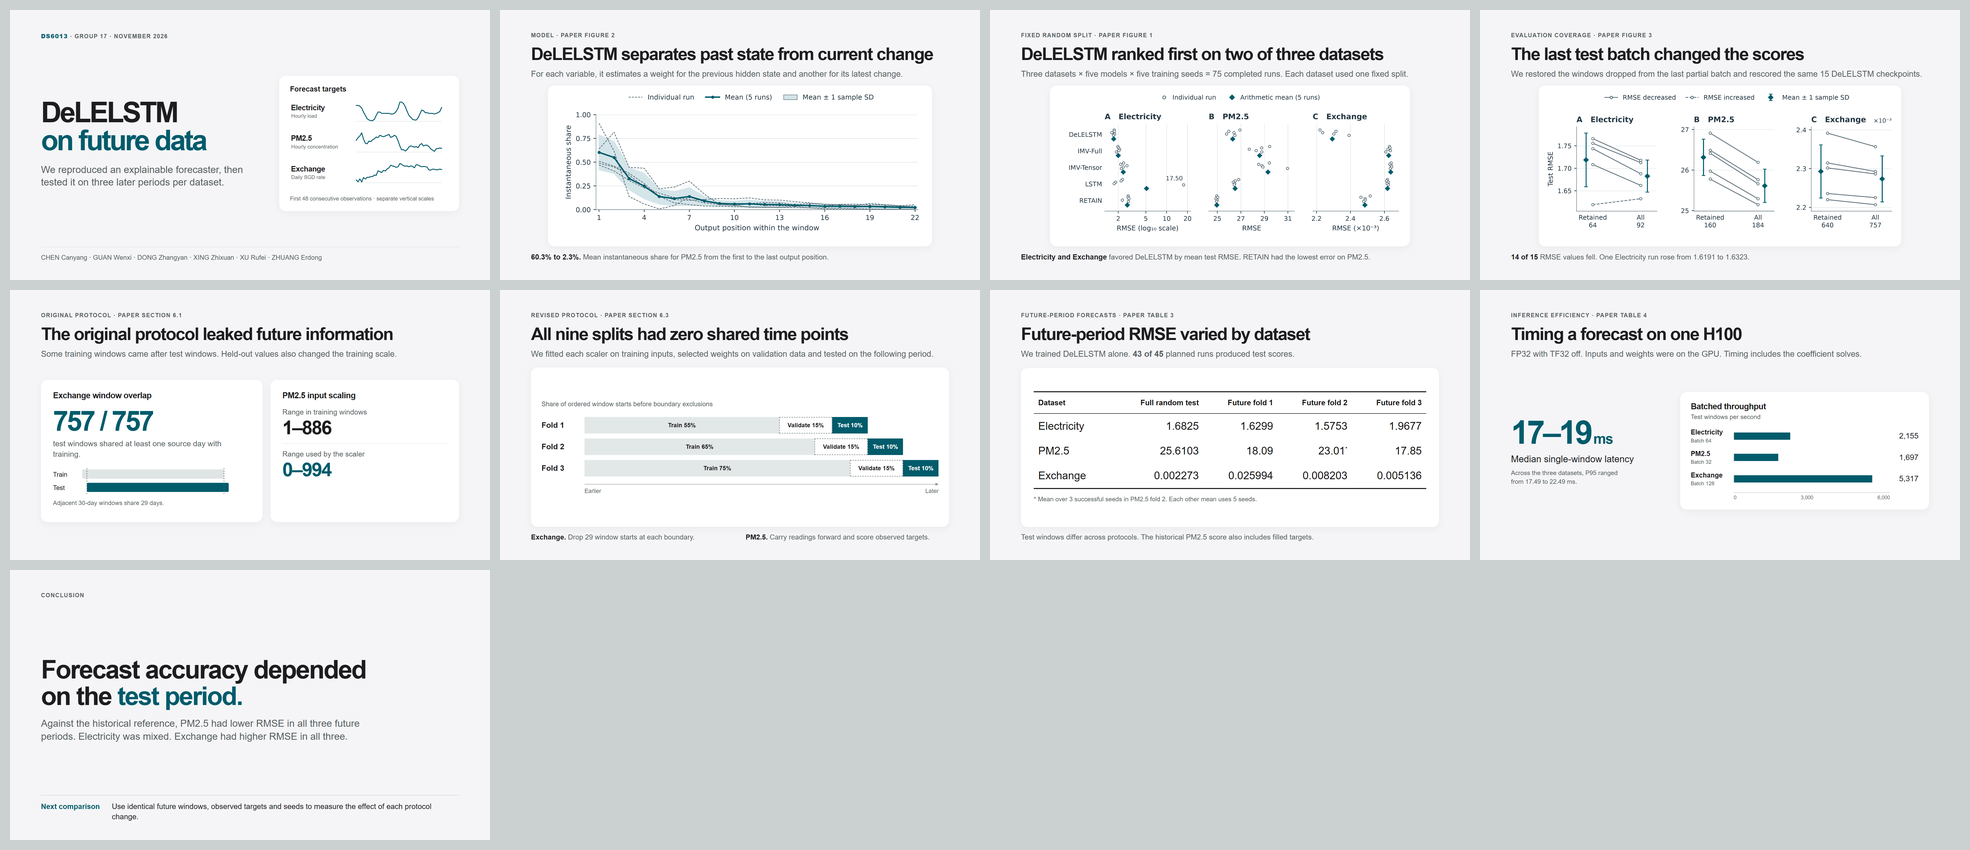
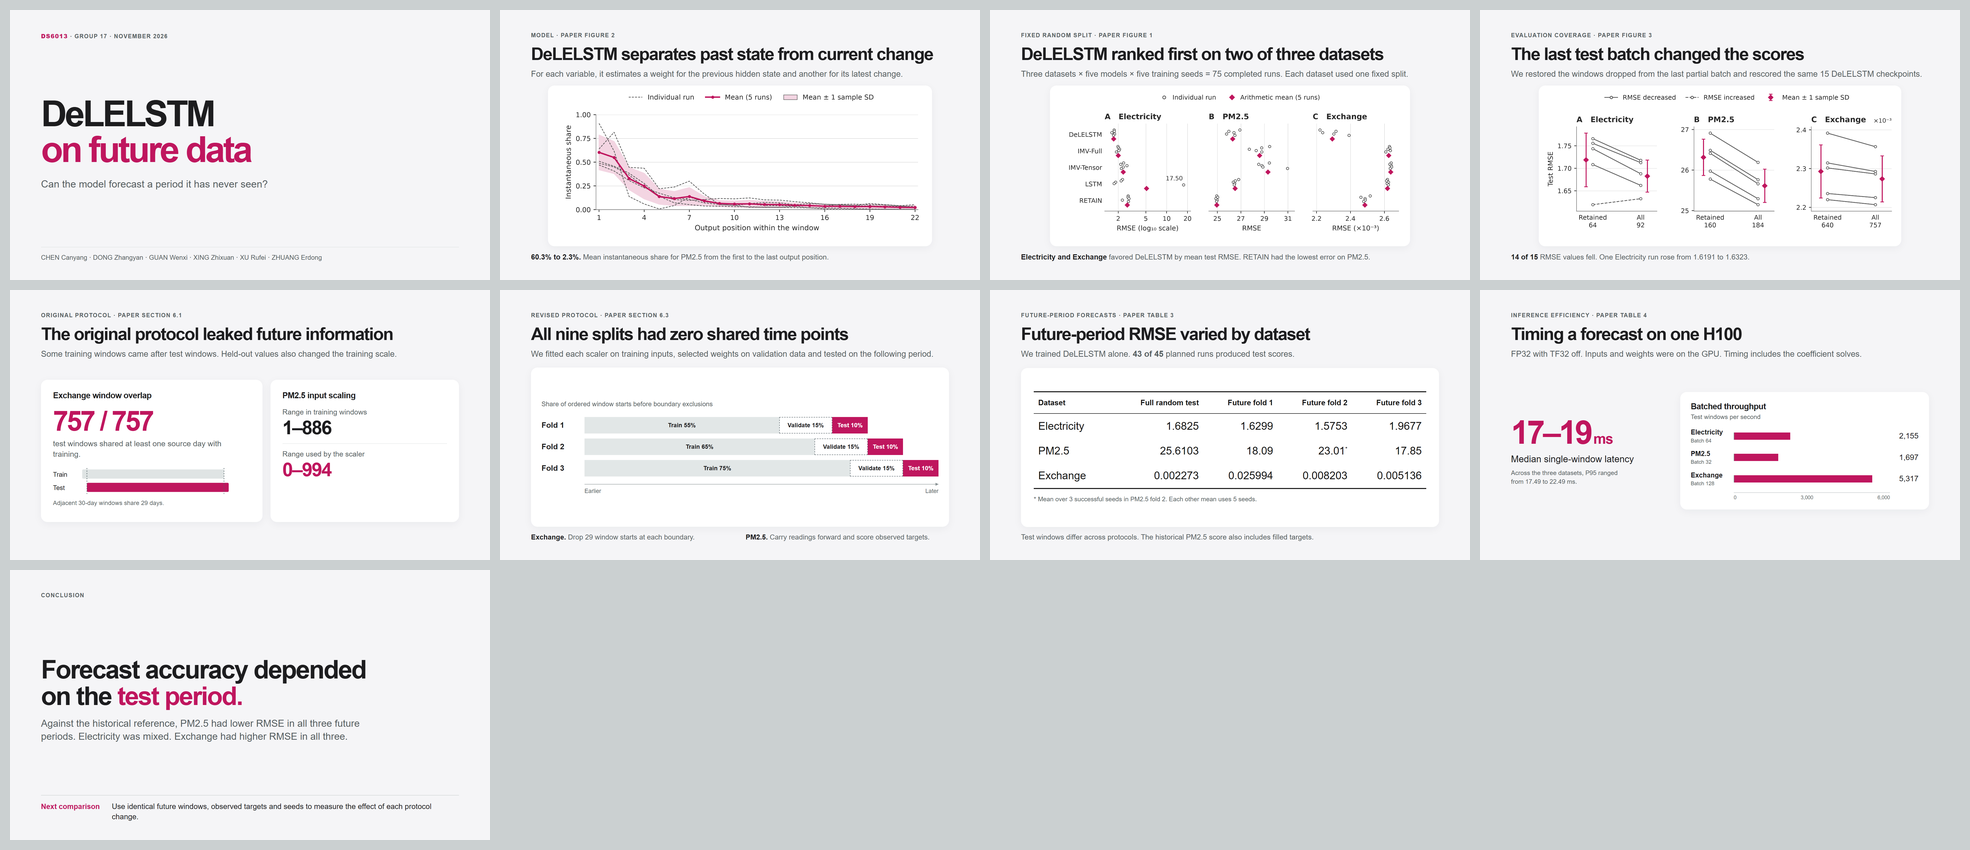
Time the DeLELSTM presentation for seven minutes and apply CityU burgundy

diff --git a/doc/pre/deck.html b/doc/pre/deck.html
@@ -7,7 +7,7 @@
 <style>
 :root {
   --bg: #f5f5f7; --ink: #1d1d1f; --muted: #555d61; --line: #d5dada;
-  --accent: #005b6b; --paper: #fff;
+  --accent: #bf165e; --paper: #fff;
   --font: "Inter", "PingFang SC", "Helvetica Neue", Arial, "Microsoft YaHei", sans-serif;
 }
 * { box-sizing: border-box; }
@@ -33,13 +33,9 @@ h1 { font-size: 70px; font-weight: 600; line-height: 1.11; letter-spacing: -.045
 .fine { font-size: 25px; line-height: 1.4; color: var(--muted); }
 .sr { position: absolute; width: 1px; height: 1px; padding: 0; margin: -1px; overflow: hidden;
   clip-path: inset(50%); white-space: nowrap; border: 0; }
-.cover-main { flex: 1; display: grid; grid-template-columns: 1.1fr .9fr; gap: 74px; align-items: center; }
-.cover h1 { font-size: 114px; line-height: .99; letter-spacing: -.063em; margin-top: 0; }
-.cover .intro { margin-top: 35px; max-width: 820px; font-size: 39px; color: var(--muted); line-height: 1.28; }
-.cover-figure { padding: 37px 43px 33px; }
-.cover-figure figcaption { font-size: 29px; font-weight: 600; margin-bottom: 16px; }
-.cover-figure img { width: 100%; height: auto; display: block; }
-.cover-figure .fine { font-size: 22px; margin-top: 11px; }
+.cover-main { flex: 1; display: flex; flex-direction: column; align-items: flex-start; justify-content: center; }
+.cover h1 { font-size: 144px; line-height: .99; letter-spacing: -.06em; margin-top: 0; }
+.cover .intro { margin-top: 40px; max-width: 1130px; font-size: 40px; color: var(--muted); line-height: 1.3; }
 .authors { border-top: 1px solid var(--line); padding-top: 23px; font-size: 26px; line-height: 1.4; color: var(--muted); }
 .audit-grid { flex: 1; display: grid; grid-template-columns: 1.08fr .92fr; gap: 32px; align-content: center; }
 .audit-card { padding: 44px 48px 42px; min-height: 569px; }
@@ -109,7 +105,7 @@ h1 { font-size: 70px; font-weight: 600; line-height: 1.11; letter-spacing: -.045
 #index strong { display: block; font-size: 12px; text-transform: uppercase; color: var(--muted); padding: 8px 10px 2px; }
 #index button { display: flex; width: 100%; gap: 10px; border: 0; background: transparent; text-align: left; color: var(--ink);
   padding: 8px 10px; font-size: 14px; border-radius: 6px; cursor: pointer; }
-#index button[aria-current="page"], #index button:hover { background: #e8eff0; }
+#index button[aria-current="page"], #index button:hover { background: color-mix(in srgb, var(--accent) 8%, white); }
 #counter { position: fixed; z-index: 4; right: 15px; bottom: 12px; padding: 5px 11px; color: white;
   background: #333c; border-radius: 7px; font-size: 14px; }
 @media (hover: none) { #controls { opacity: .8; } }
@@ -122,17 +118,10 @@ h1 { font-size: 70px; font-weight: 600; line-height: 1.11; letter-spacing: -.045
 <section class="slide cover active" data-sec="Overview" data-title="DeLELSTM on future data">
   <div class="kicker"><strong>DS6013</strong> · Group 17 · November 2026</div>
   <div class="cover-main">
-    <div>
-      <h1>DeLELSTM<br><span class="accent">on future data</span></h1>
-      <p class="intro">We reproduced an explainable forecaster, then tested it on three later periods per dataset.</p>
-    </div>
-    <figure class="cover-figure paper">
-      <figcaption>Forecast targets</figcaption>
-      <img src="media/forecast-targets.svg" alt="Observed electricity demand, PM2.5 concentration and Singapore exchange rate.">
-      <p class="fine">First 48 consecutive observations · separate vertical scales</p>
-    </figure>
+    <h1>DeLELSTM<br><span class="accent">on future data</span></h1>
+    <p class="intro">Can the model forecast a period it has never seen?</p>
   </div>
-  <footer class="authors">CHEN Canyang · GUAN Wenxi · DONG Zhangyan · XING Zhixuan · XU Rufei · ZHUANG Erdong</footer>
+  <footer class="authors">CHEN Canyang · DONG Zhangyan · GUAN Wenxi · XING Zhixuan · XU Rufei · ZHUANG Erdong</footer>
 </section>
 
 <section class="slide" data-sec="Replication" data-title="Past state and current change">
@@ -180,7 +169,7 @@ h1 { font-size: 70px; font-weight: 600; line-height: 1.11; letter-spacing: -.045
         <g font-family="Arial, sans-serif" fill="#1d1d1f" font-size="23">
           <text x="0" y="42">Train</text><text x="0" y="90">Test</text>
           <rect x="105" y="16" width="510" height="33" rx="4" fill="#dfe4e4"/>
-          <rect x="122" y="64" width="510" height="33" rx="4" fill="#005b6b"/>
+          <rect x="122" y="64" width="510" height="33" rx="4" fill="var(--accent)"/>
           <path d="M122 11v93 M615 11v93" stroke="#546367" stroke-width="2" stroke-dasharray="4 5"/>
           <text x="0" y="144" fill="#555d61" font-size="22">Adjacent 30-day windows share 29 days.</text>
         </g>

diff --git a/doc/pre/render_figures.py b/doc/pre/render_figures.py
@@ -1,0 +1,49 @@
+"""Redraw the three presentation figures from the group's archived scores."""
+
+from pathlib import Path
+import re
+import shutil
+import sys
+from tempfile import TemporaryDirectory
+
+import matplotlib.colors as colors
+import matplotlib.pyplot as plt
+import pandas as pd
+
+HERE = Path(__file__).resolve().parent
+ROOT = HERE.parents[1]
+sys.path.insert(0, str(ROOT / "scripts"))
+import reproduce_paper_figures as paper
+
+
+def main():
+    css = (HERE / "deck.html").read_text(encoding="utf-8")
+    accent = re.search(r"--accent:\s*(#[0-9a-fA-F]{6})\s*;", css).group(1)
+    paper.MEAN = accent
+    paper.BAND = colors.to_hex([0.82 + 0.18 * channel for channel in colors.to_rgb(accent)])
+    paper.RAW = "#595959"
+    style = {
+        **paper.FIGURE_STYLE,
+        "text.color": "#282828",
+        "axes.labelcolor": "#282828",
+        "xtick.color": "#282828",
+        "ytick.color": "#282828",
+        "axes.edgecolor": "#777777",
+        "grid.color": "#dddddd",
+    }
+
+    results = ROOT / "results"
+    figures = results / "figures"
+    with TemporaryDirectory() as temp, plt.rc_context(style):
+        out = Path(temp)
+        paper.plot_performance(pd.read_csv(results / "five_run" / "verified_detail.csv"), out)
+        paper.plot_shares(pd.read_csv(figures / "pm25_instantaneous_share_five_runs.csv",
+                                      float_precision="round_trip"), out)
+        paper.plot_windows(pd.read_csv(figures / "audit_full_test_five_runs.csv",
+                                       float_precision="round_trip"), out)
+        for image in out.glob("*.png"):
+            shutil.copyfile(image, HERE / "media" / image.name)
+
+
+if __name__ == "__main__":
+    main()

diff --git a/doc/pre/七分钟讲稿.md b/doc/pre/七分钟讲稿.md
@@ -1,0 +1,55 @@
+# DeLELSTM on future data
+
+英文口播稿，共 9 页，约 800 词，按每分钟约 115 词排练。每页标题前的时间是从开场累计的换页点。在 **3:40** 切到时间划分页，在 **5:50** 切到推理页，在 **7:00** 结束。[打开投影片](deck.html)
+
+## 1 · 0:00–0:30 · The forecasting question
+
+Imagine forecasting tomorrow’s air pollution. What information would you actually have today? We’re Group Seventeen. We asked that question about DeLELSTM, a model that forecasts several kinds of time series and explains how it uses their history. We first reproduced its published evaluation. Then we tested the same model on three later periods for each dataset.
+
+## 2 · 0:30–1:20 · What the model explains
+
+Suppose air pollution suddenly rises. The model uses two pieces of information about each variable. One is the state it carried over from the previous step. The other is how much that state just changed. Each gets its own weight.
+
+Follow the solid line for the pollution variable itself. After we normalize the two sets of weights, the share assigned to the latest change is about sixty percent at the first output position. By the last position, it is about two percent. The dashed lines show the five individual runs. This tells us how the model uses a variable’s history across a window.
+
+## 3 · 1:20–2:05 · Reproducing the historical ranking
+
+We started with the original random split so we could check whether we could reproduce the model ranking. We ran five models with five training seeds on each of three datasets. That gives seventy-five runs. Each circle is one run, and each diamond is the average. Further left means lower forecast error.
+
+DeLELSTM has the lowest average error on electricity demand and exchange rates. For Beijing air pollution, RETAIN comes first. So the ranking depends on the dataset, even before we change how the test period is chosen.
+
+## 4 · 2:05–2:45 · The missing last batch
+
+The original evaluation stopped at the last complete batch. For electricity, that meant scoring only sixty-four of the ninety-two test windows.
+
+Each line follows one saved model. We kept its weights and restored the omitted windows. Error fell in fourteen of the fifteen comparisons. The dashed line on the left shows the one increase. We use the complete random test set as our historical reference from here on.
+
+## 5 · 2:45–3:40 · Two paths for future information
+
+Look at the two bars. One exchange-rate window covers days one through thirty. Move its start by a day, and the next window still contains twenty-nine of the same days. When windows are randomly assigned, one can end up in training and the other in testing. We checked the dates. Every one of the seven hundred and fifty-seven exchange-rate test windows shared at least one day with training.
+
+Scaling introduced a second problem. In the pollution training windows, the observations ranged from one to eight hundred and eighty-six. The scaler used zero to nine hundred and ninety-four. Values outside training had already influenced what the model saw.
+
+## 6 · 3:40–4:40 · Rebuilding the evaluation in time order
+
+Read each row from left to right. We train on the earliest observations, choose the model on the next period, and test it on the period after that. Across the three rows, training expands from fifty-five to seventy-five percent. We fit a fresh scaler using only the training inputs in each row.
+
+For exchange rates, we drop twenty-nine window starts after each boundary. Across all nine splits, we verified that training, validation and testing share zero original time points. For air pollution, we fill an input gap using the last available reading and score only observed targets. In the final test period, that excludes sixty-two missing targets from the error calculation.
+
+## 7 · 4:40–5:50 · What changed on future periods
+
+Read across each row. The first number is the historical score on the complete random test set. The next three are the average errors on successive future periods. Lower is better. We trained only DeLELSTM for this comparison.
+
+Air pollution shows the clearest downward pattern. Its historical error was about twenty-six, and the three future scores were roughly eighteen, twenty-three and eighteen. Electricity was lower in the first two periods and higher in the last. Exchange-rate error was higher in all three future periods.
+
+The asterisk matters. Two air pollution runs in the middle period failed during training, so that cell averages three successful seeds. Overall, forty-three of forty-five runs produced scores. The protocols also use different test windows, and the old pollution scores include filled targets. Those differences limit what we can attribute to the repair itself.
+
+## 8 · 5:50–6:30 · How fast is one forecast?
+
+We also timed the trained model on one H100 GPU. The inputs and weights were already on the device. We used full single precision and included the calculation of the explanation coefficients in the timing.
+
+One window took a median of seventeen to nineteen milliseconds. With batches, throughput ranged from about seventeen hundred pollution windows per second to fifty-three hundred exchange-rate windows per second. The batch sizes appear beside each bar. These timings cover the model’s forward pass.
+
+## 9 · 6:30–7:00 · What we can conclude
+
+We can now test on strictly later data using a scale learned from training alone. Accuracy still varied by dataset and period. To measure how much each repair changes accuracy, we would keep the future windows, observed targets and seeds fixed, then change one part of the protocol at a time. Thank you.

diff --git a/doc/pre/说明.md b/doc/pre/说明.md
@@ -1,10 +1,10 @@
 # DeLELSTM 课堂汇报
 
-双击 [deck.html](deck.html) 即可离线播放。单独转发材料时，请一起复制 `media/`。英文投影片共 9 页，按约 5 分钟设计。[全页预览](预览-全部页面.png) · [小组报告](../6013_Paper_public.docx)
+双击 [deck.html](deck.html) 即可离线播放。单独转发时请一起复制 `media/`。共 9 页，英文讲稿按 7 分钟编排，标明每页起止时间。[英文计时讲稿](七分钟讲稿.md) · [全页预览](预览-全部页面.png) · [小组报告](../6013_Paper_public.docx)
 
 ## 逐页讲解提示
 
-1. **研究问题。** 我们先复现 DeLELSTM 在随机划分下的成绩，再问同一模型能否预测更晚的时段。封面三条线分别取电力负荷、北京 PM2.5、新加坡汇率最早连续 48 个有观测的记录，各用自己的纵轴范围。电力和 PM2.5 是小时数据，汇率是日数据。[电力](../../vendor/upstream/DATA/Electricity/electric_consumption.csv) · [PM2.5](../../vendor/upstream/DATA/PM2.5/PRSA_data_2010.1.1-2014.12.31.csv) · [汇率](../../vendor/upstream/DATA/Exchange/exchange_rate.csv)
+1. **研究问题。** 从“今天预测明天的空气污染时，能用到哪些信息”切入，引出同一模型在随机划分和未来时段上的表现。封面姓名按英文姓氏字母顺序排列。
 2. **模型如何解释预测。** DeLELSTM 用各变量前一时刻的隐藏状态及其当前变化，线性重构共享隐藏状态，再用它预测。图中 PM2.5 自身的瞬时系数占比从首位置的 60.3% 降到末位置的 2.3%。这描述模型的系数分配，横轴是窗口内的输出位置。[报告图 2 与 110 个位置值](../../results/figures/pm25_instantaneous_share_five_runs.csv)
 3. **能否复现原有排名。** 三个数据集各用一次固定随机划分，五个模型各训练五次，共 75 次。按平均测试 RMSE 排名，DeLELSTM 在 Electricity 和 Exchange 最低，PM2.5 上最低的是 RETAIN。图中空心圆为单次结果，菱形为算术均值。[报告图 1 与 75 次训练明细](../../results/five_run/verified_detail.csv)
 4. **历史参照怎么得到。** 原测试只统计完整批次。我们用同一批权重补回尾批，15 组配对中有 14 组 RMSE 下降，另一次 Electricity 运行上升。后文的历史参照使用完整随机测试集上的五次均值。[报告图 3 与 15 组配对](../../results/figures/audit_full_test_five_runs.csv)
@@ -18,7 +18,9 @@
 
 方向键或空格翻页，`F` 切换全屏，`G` 打开目录，`C` 显示页码，数字键直达相应页。从 `deck.html#7` 打开可直接展示未来时段结果。
 
-三个报告原图随 `media/` 分发。封面曲线取自原始观测，第 5 页窗口示意和第 6 页按时间划分的比例图绘在 HTML 中。第 7、8 页数字分别来自上述逐折汇总与推理记录。
+演示的强调色采用香港城市大学计算机科学系官网样式中指定的主色 `#BF165E`。图中单次实验用灰色，均值用酒红色。第 7 页的数值表采用黑白三线表。[城大网页模板的 Burgundy Red 说明](https://www.cityu.edu.hk/www-info/templates/customization.htm) · [校方网页主色色值](https://www.cs.cityu.edu.hk/-/media/themes/cityuhk/cs/cs/styles/css_uwhkewx9wvenyej-mih376sgy0ys2t2kw0enwzlet5s.css?rev=a1ae55d8b2e040c4af5ff101b23330ad&hash=6E3A38C64DD79FD97F3E21E8F98E96AB)
+
+第 2–4 页的三幅图由报告的逐次实验结果重绘，随 `media/` 分发。需要重绘时，可在项目绘图环境中从本目录运行 `python render_figures.py`。第 5 页的相邻窗口示意和第 6 页的时间划分示意直接绘在投影片中。
 
 如需重建缩略图，在此目录运行以下命令。需要本机 Chrome 或 Edge，以及装有 Pillow 的 Python 3.10 或更新版本。
 

diff --git a/doc/README.md b/doc/README.md
@@ -2,7 +2,7 @@
 
 - [小组协作版 Word 稿](6013_Paper_public.docx) 包含五次历史训练成绩、图 1–3、第 6.1 和 6.3 节的时间协议核查、第 6.4 节表 3 的未来时段预测，以及第 6.5 节表 4 的 H100 推理效率。组员共同编辑此版本。
 - [项目进度与下一步](../docs/project_process.md) 记录数据核查、正式运行状态、逐折成绩和后续可选实验。
-- [课堂汇报](pre/deck.html) 共 9 页，可下载 `pre/` 后离线播放。[中文讲解提示与素材出处](pre/说明.md)
+- [课堂汇报](pre/deck.html) 共 9 页，按 7 分钟编排。下载 `pre/` 后可离线播放。[英文逐页讲稿与换页时间](pre/七分钟讲稿.md) · [中文讲解提示与素材出处](pre/说明.md)
 - [历史课程稿](DeLELSTM_Five_Run_Course_Paper.docx) 是较早版本，保留供比较。
 - [code_audit.md](code_audit.md)：代码与实验核查，文件引用已更新为当前目录。
 - [结果证据索引](../results/README.md)：报告中的旧目录与当前路径的对应关系，以及五次实验、单次解释和审计的证据范围。
